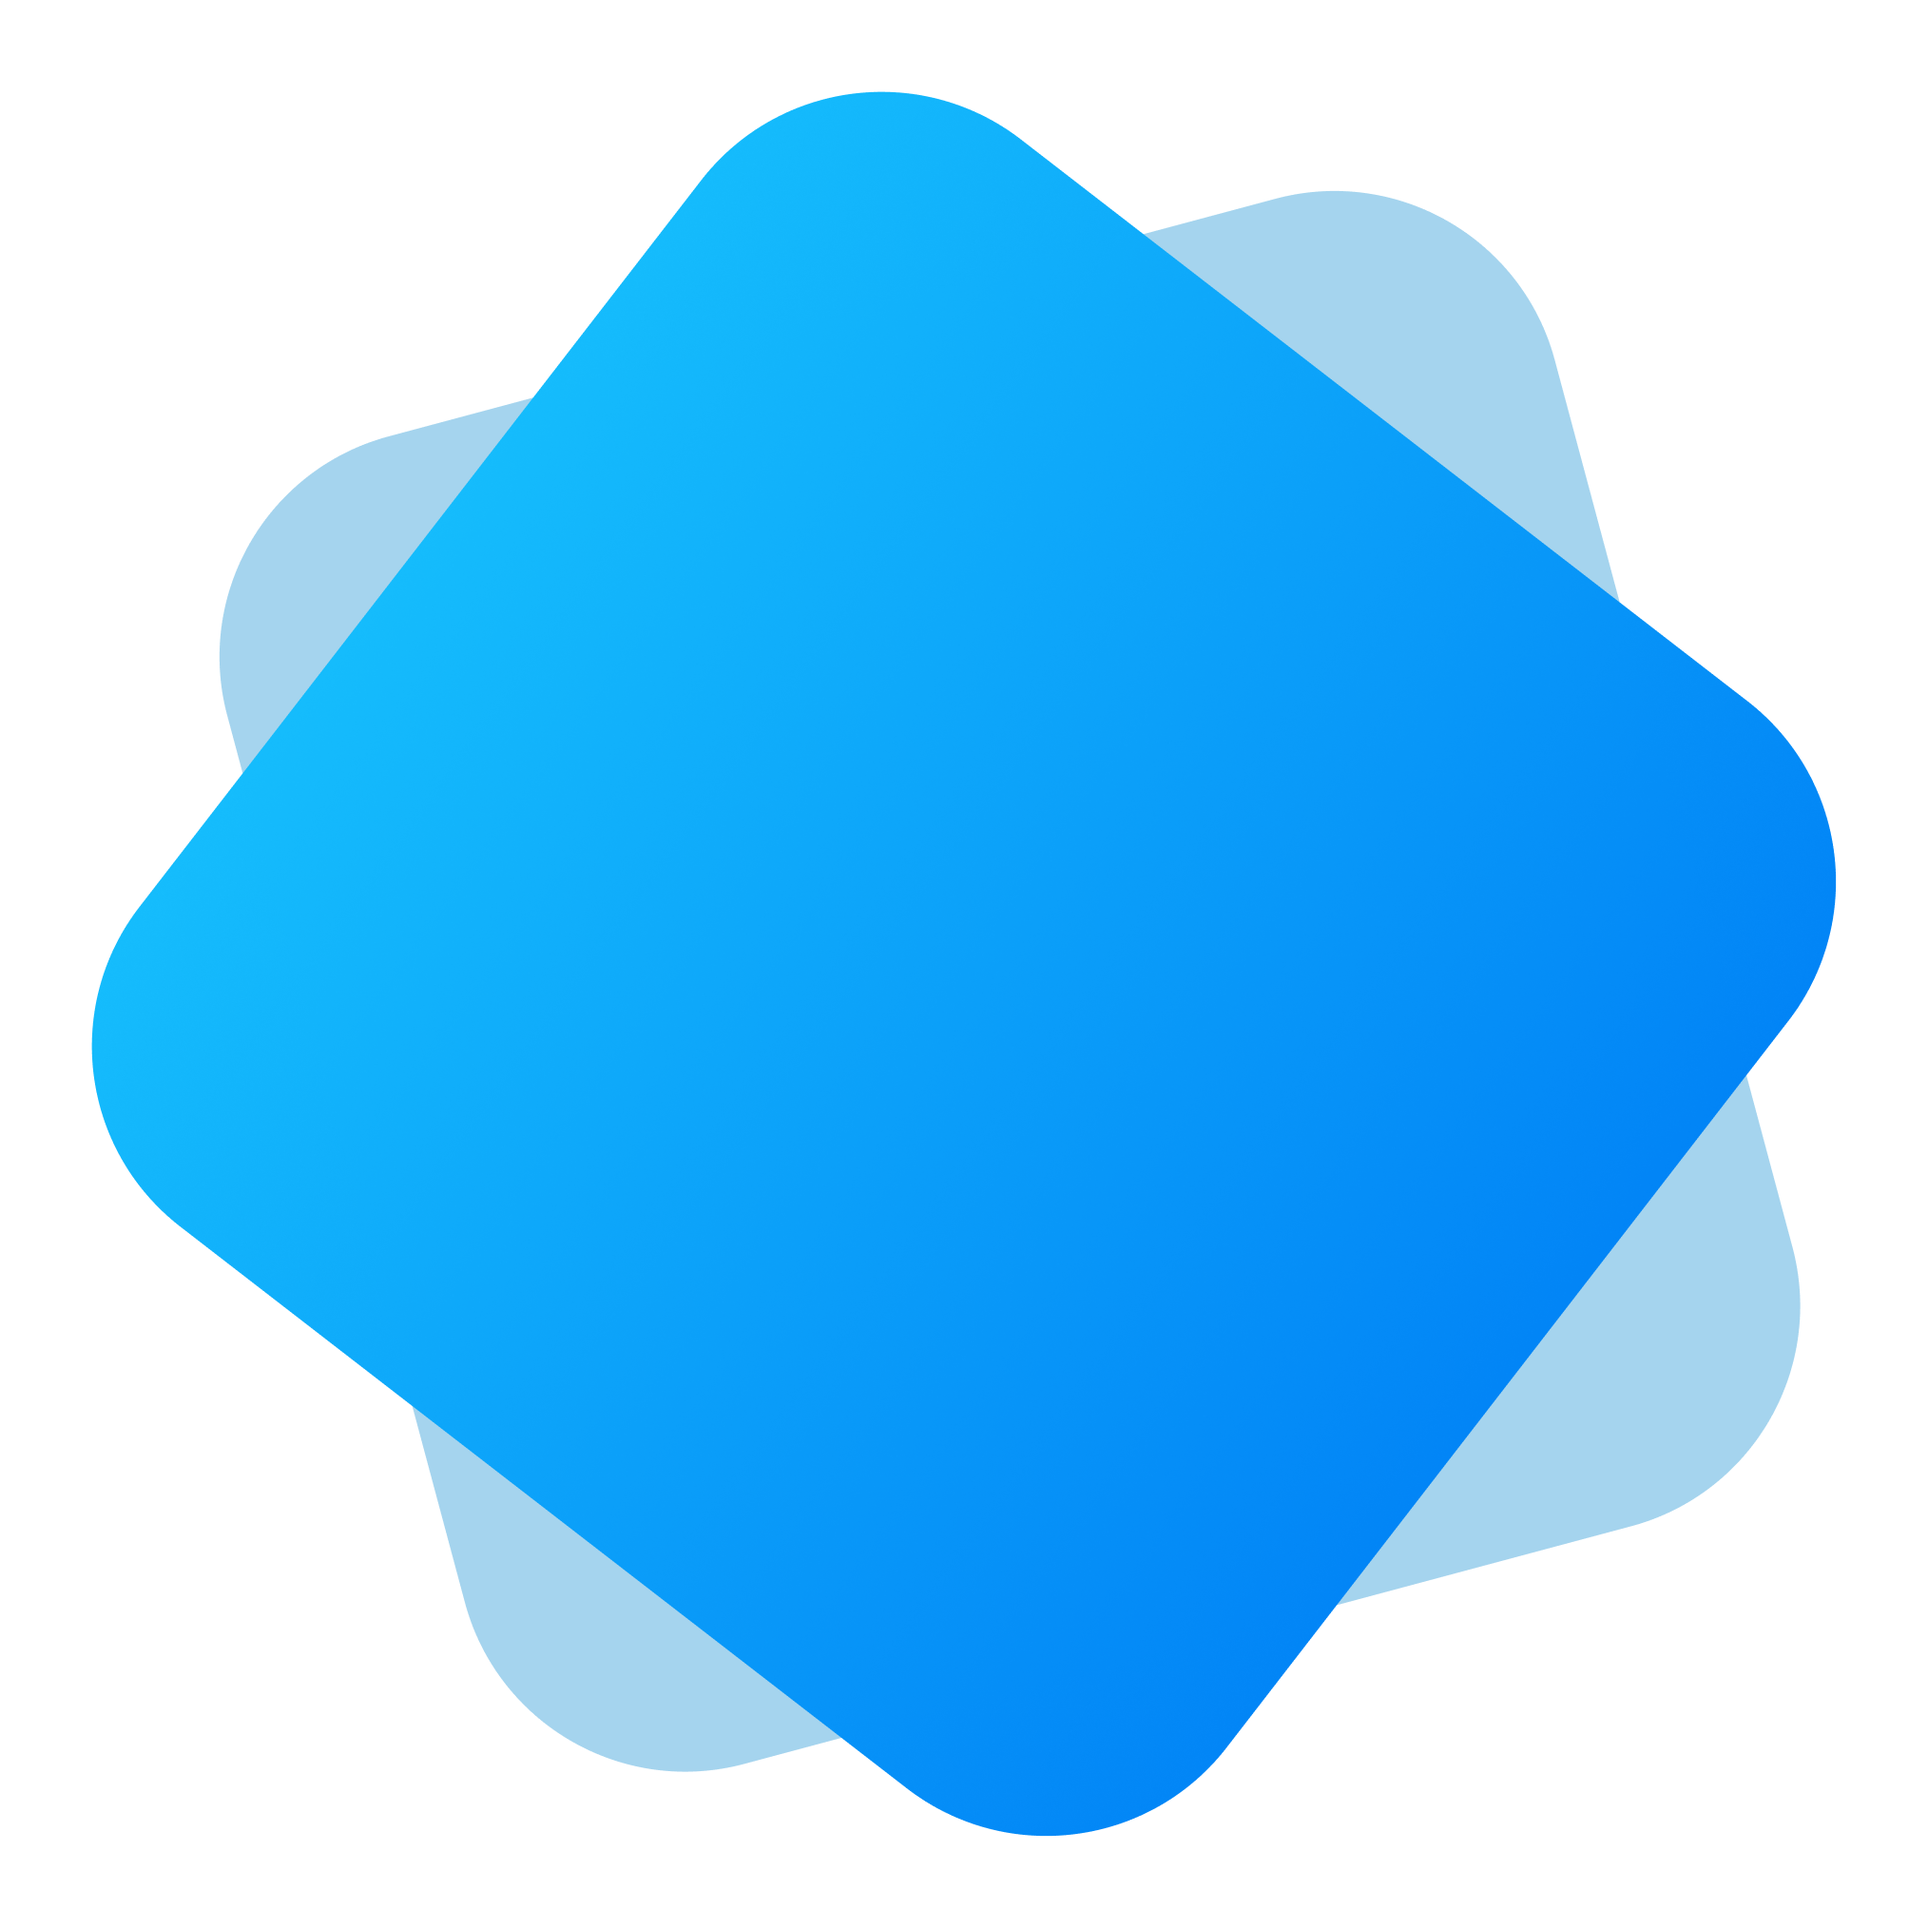
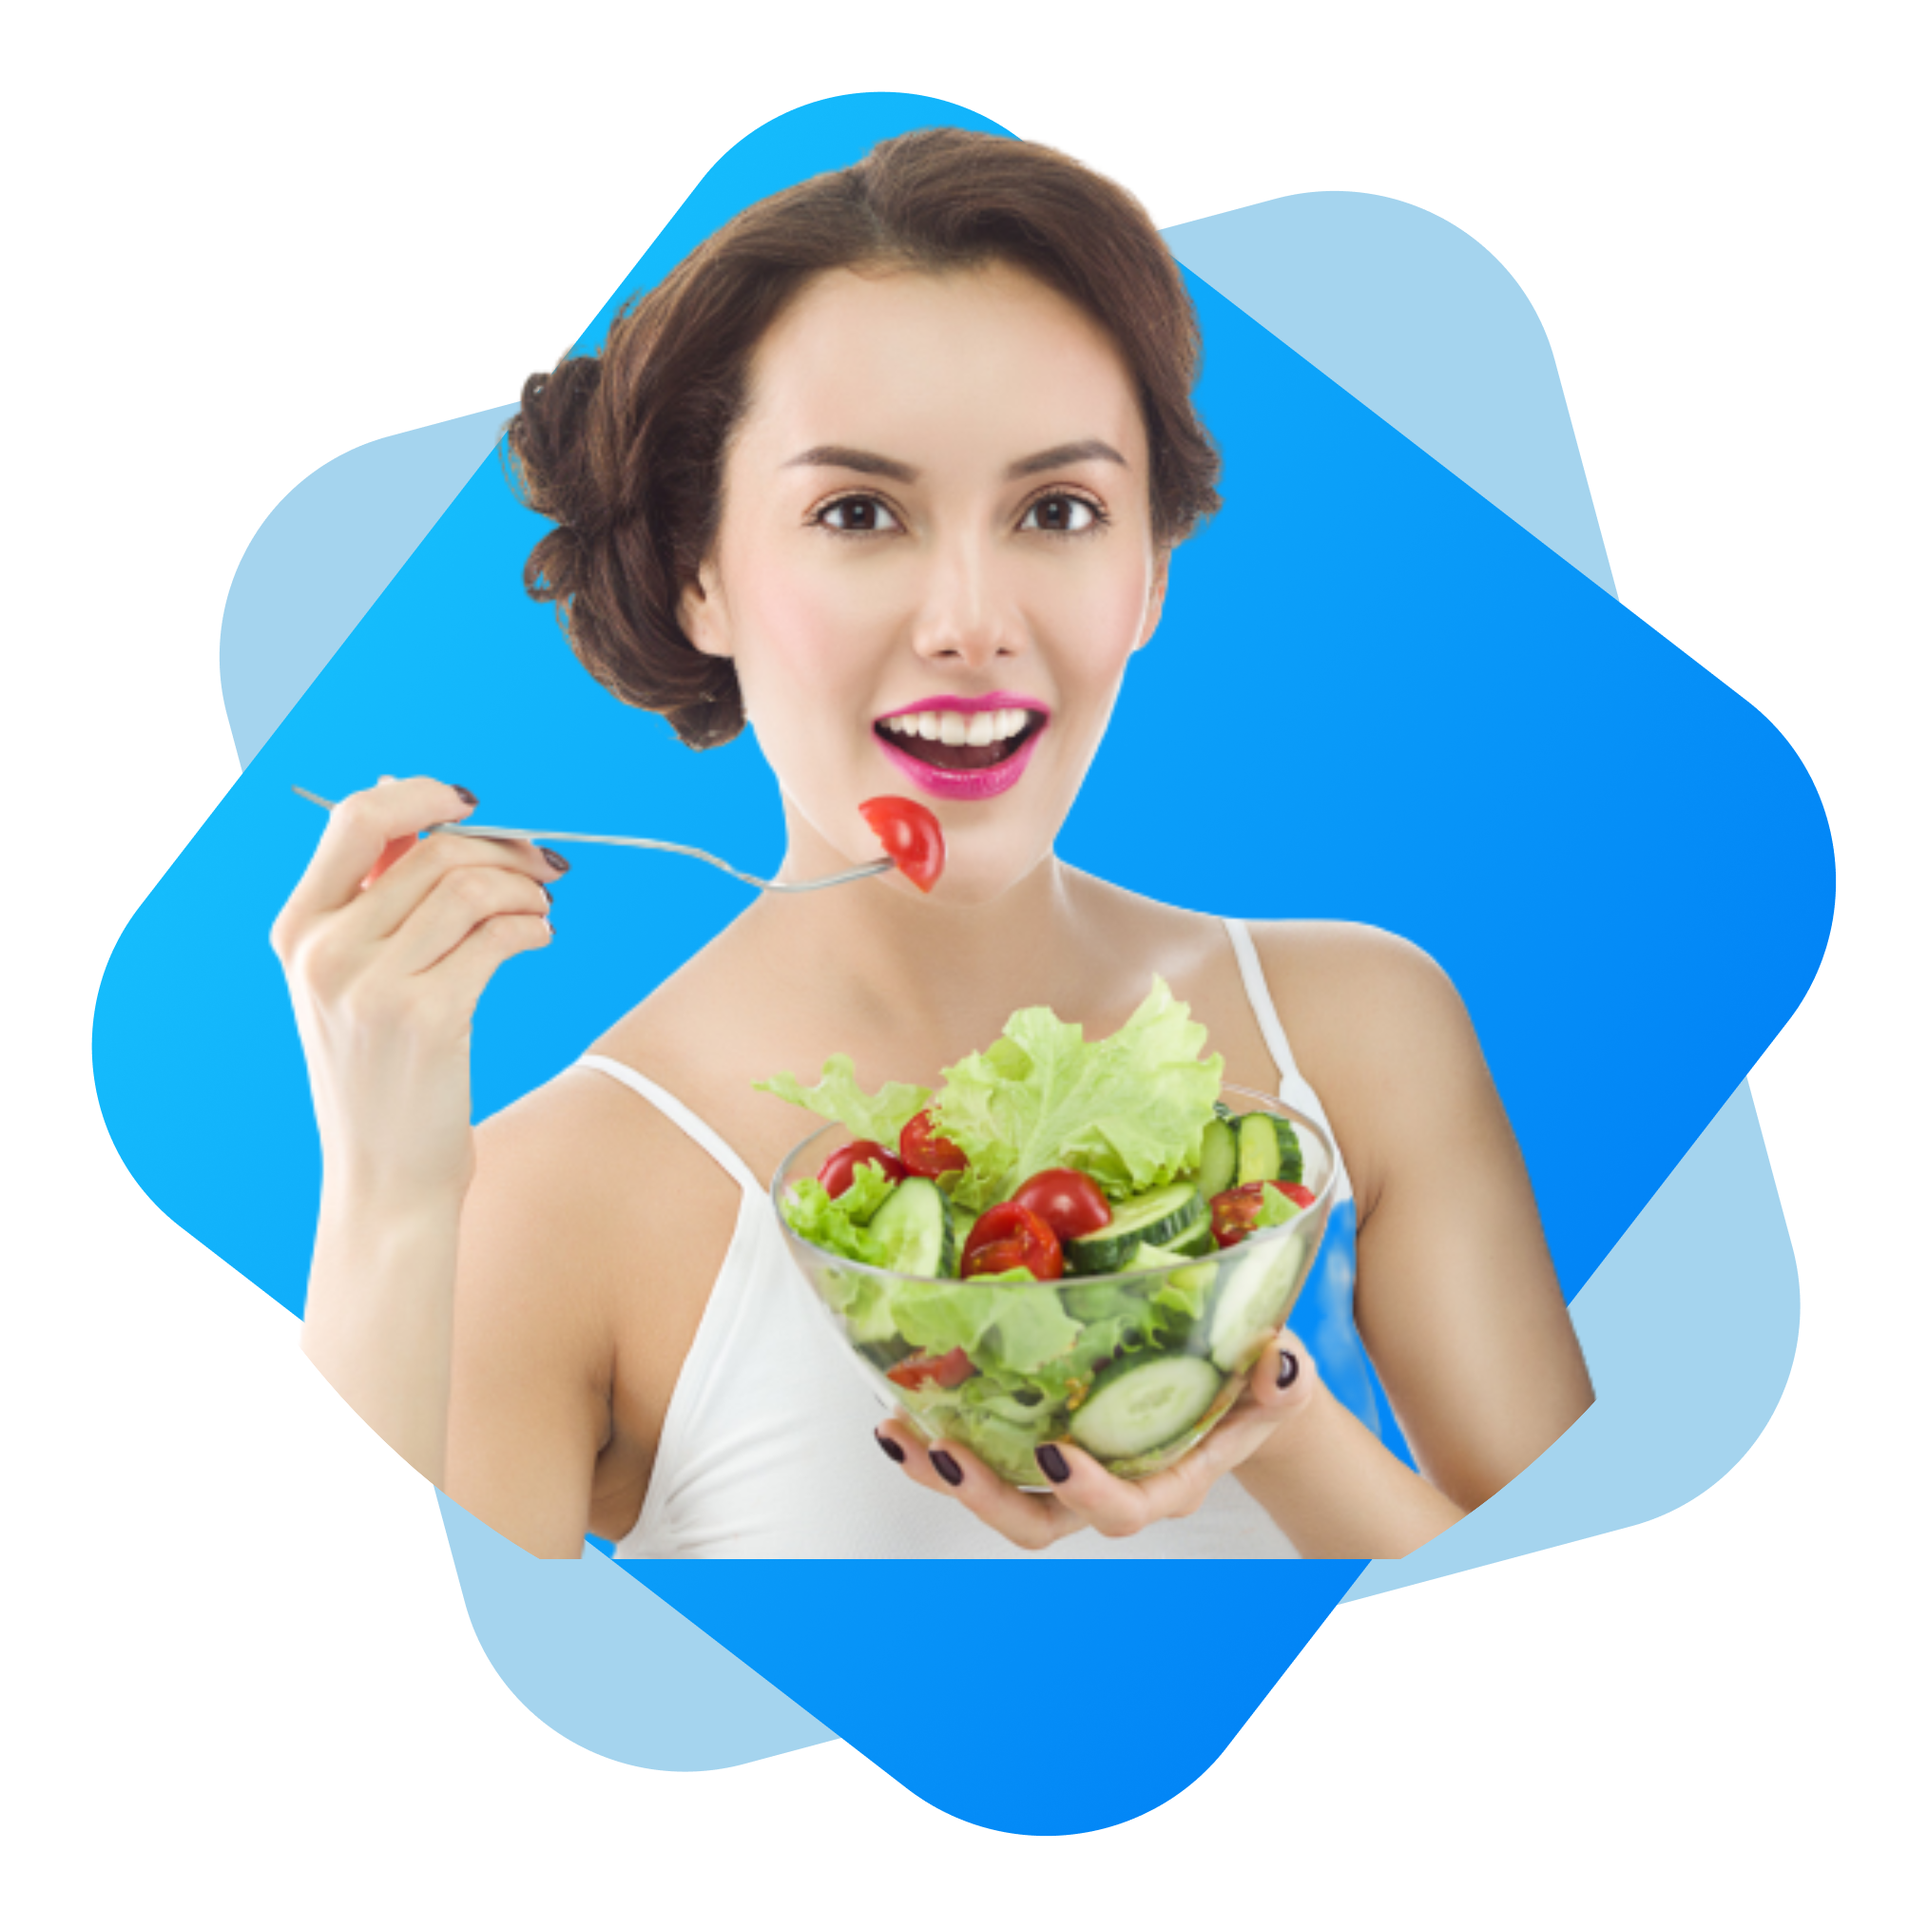
added order part

diff --git a/index.html b/index.html
@@ -8,12 +8,25 @@
     <title>Food Webside</title>
     <link rel="preconnect" href="https://fonts.googleapis.com">
     <link rel="preconnect" href="https://fonts.gstatic.com" crossorigin>
-    <link href="https://fonts.googleapis.com/css2?family=Poppins:ital,wght@0,400;0,500;0,700;1,400&display=swap"
+    <link href="https://fonts.googleapis.com/css2?family=Poppins:ital,wght@0,400;0,500;0,700;1,400;1,700&display=swap"
         rel="stylesheet">
+
     <link rel="stylesheet" href="style.css">
 </head>
 
 <body>
+    <section>
+        <div class="fast-part">
+            <h1><span id="color">Skip</span> The Diet,<br> Just Eat Healthy <br>With Food Network</h1>
+            <p>Imagine you don't need a diet because we provide<br>healthy and delicious food for you!</p>
+            <br><br>
+            <a class="button-style" target="_blank" href="">Order Food</a>
+        </div>
+        <div class="added-image">
+            <img src="female/Group 8449.jpg" alt="">
+
+        </div>
+    </section>
 
 </body>
 

diff --git a/style.css b/style.css
@@ -1,3 +1,36 @@
 body {
     font-family: 'Poppins', sans-serif;
+
+}
+
+h1 {
+    font-size: 60px;
+}
+
+section {
+    display: flex;
+}
+
+section img {
+    width: 700px;
+    margin-left: 15%;
+
+}
+
+#color {
+    color: orange;
+}
+
+.fast-part {
+    margin-left: 10%;
+    font-size: 150%;
+    margin-top: 10%;
+
+}
+
+.button-style {
+    text-decoration: none;
+    background-image: linear-gradient(yellow, rgb(255, 0, 34));
+    padding: 20px 50px;
+    border-radius: 20px;
 }
